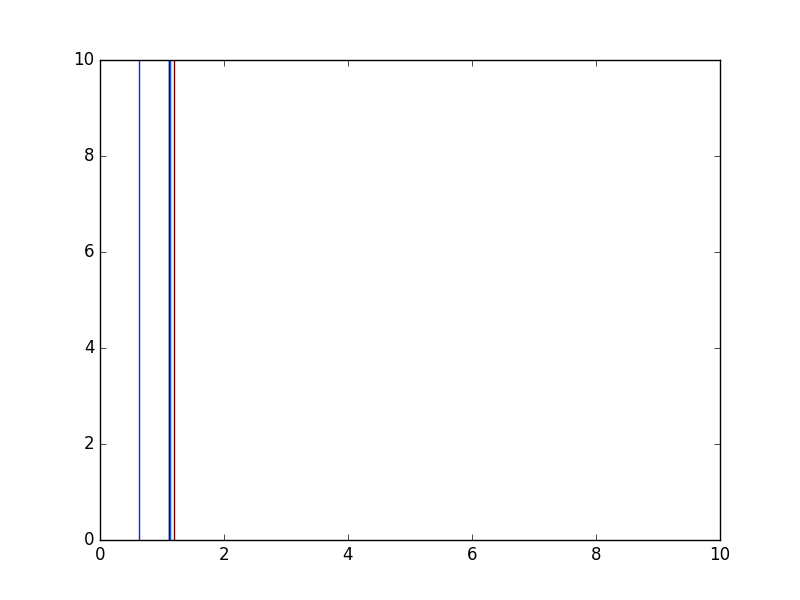
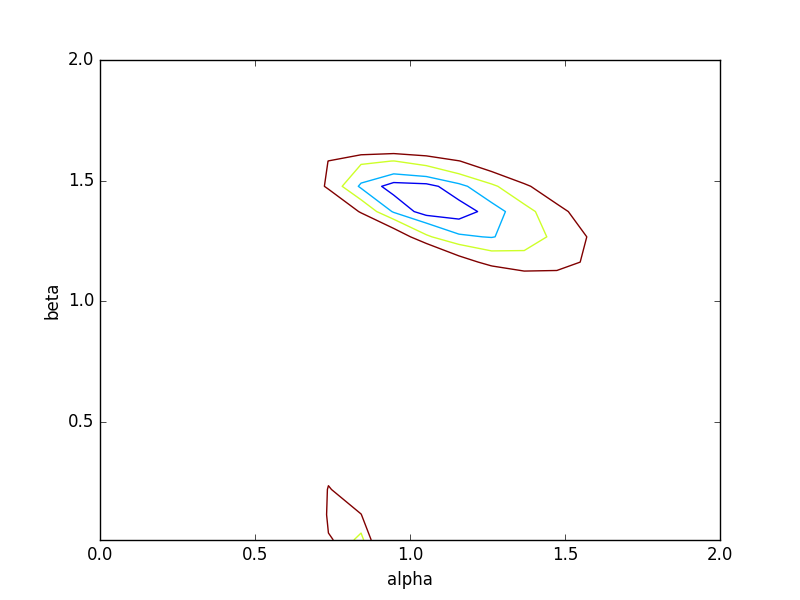
magic! things seem to work

diff --git a/GCE_jla_log_parab.py b/GCE_jla_log_parab.py
@@ -36,9 +36,9 @@ background = raw[trunc:dataset,7]
 exposure = raw[trunc:dataset,6]
 
 Eb = np.logspace(-2,2,20)
-alpha = np.linspace(0,10,10)
-beta = np.linspace(0.01,10,10)
-N0_GCE = np.logspace(-7,0,7)
+alpha = np.linspace(0,2,20)
+beta = np.linspace(0.01,2,20)
+N0_GCE = np.logspace(-10,-3,14)
 
 binned_spectra = GCE_calcs.calculations.get_spec_log_parab(N0_GCE,alpha,beta,Eb,emax_GCE,emin_GCE)
 
@@ -86,15 +86,26 @@ log_like_GCE_5d = GCE_calcs.analysis.poisson_log_like(k,mu_GCE)
 
 log_like_GCE_4d = np.sum(log_like_GCE_5d,axis=4)
 
+#print log_like_GCE_4d
+
+max_index = np.unravel_index(log_like_GCE_4d.argmax(),log_like_GCE_4d.shape)
+
+print 'the index of the max prob is ' + str(max_index)
+
+print 'the max alpha is ' + str(alpha[max_index[1]])
+print 'the max beta is ' + str(beta[max_index[2]])
+print 'the max Eb is ' + str(Eb[max_index[3]])
+print 'the max N0 is ' + str(N0_GCE[max_index[0]])
+
 like_GCE_4d = np.exp(log_like_GCE_4d)
 
 zero_test = np.count_nonzero(like_GCE_4d)
 
-print 'the number of non-zero elements are' + str(zero_test)
+#print 'the number of non-zero elements are' + str(zero_test)
 
 N0_prior_norm = np.trapz(np.ones(n_N0),x = np.log(N0_GCE))
 
-print 'the norm of the N0 prior is '+ str(N0_prior_norm)
+#print 'the norm of the N0 prior is '+ str(N0_prior_norm)
 
 like_GCE_3d = np.trapz(like_GCE_4d, x = np.log(N0_GCE),axis=0) / N0_prior_norm
 
@@ -102,27 +113,27 @@ like_GCE_3d = np.trapz(like_GCE_4d, x = np.log(N0_GCE),axis=0) / N0_prior_norm
 
 Eb_prior_norm = np.trapz(np.ones(n_eb),x = np.log(Eb))
 
-print 'the norm of the E_b prior is '+ str(Eb_prior_norm)
+#print 'the norm of the E_b prior is '+ str(Eb_prior_norm)
 
 like_GCE_2d = np.trapz(like_GCE_3d, x = np.log(Eb),axis = 2) / Eb_prior_norm
 
 zero_test_2d = np.count_nonzero(like_GCE_2d)
 
-print 'the number of non-zero elements are' + str(zero_test_2d)
+#print 'the number of non-zero elements are' + str(zero_test_2d)
 
 alpha_prior_norm = np.trapz(np.ones(n_alpha),x = alpha)
 
-print 'the norm of the alpha prior is '+ str(alpha_prior_norm)
+#print 'the norm of the alpha prior is '+ str(alpha_prior_norm)
 
-like_GCE_1d = np.trapz(like_GCE_2d, x = alpha, axis = 0)
+like_GCE_1d = np.trapz(like_GCE_2d, x = alpha, axis = 0)/alpha_prior_norm
 
 beta_prior_norm = np.trapz(np.ones(n_beta), x = beta)
 
-print 'the norm of the beta prior is '+ str(beta_prior_norm)
+#print 'the norm of the beta prior is '+ str(beta_prior_norm)
 
 like_GCE = np.trapz(like_GCE_1d, x = beta)/beta_prior_norm
 
-#print like_GCE
+print like_GCE
 
 #print like_GCE_2d
 
@@ -130,15 +141,19 @@ delta_log_like_2d = -(np.log(like_GCE_2d) - np.log(like_GCE_2d.max()))
 
 print delta_log_like_2d.shape
 
-print alpha
-print beta
+#print alpha
+#print beta
 
 #print delta_log_like_2d
 
-print np.argmax(like_GCE_2d,axis=0)
+#print np.argmax(like_GCE_2d,axis=0)
 
-levels = [0,1,3,6]
+levels = [0,1,3,6,10]
 plt.contour(alpha, beta, delta_log_like_2d ,levels)
+#plt.xlim(0,2)
+#plt.ylim(6,8)
+plt.xlabel('alpha')
+plt.ylabel('beta')
 plt.savefig('posterior_test.png')
 
 

diff --git a/GCE_calcs/calculations.py b/GCE_calcs/calculations.py
@@ -83,5 +83,5 @@ def get_spec_log_parab(N0,alpha,beta,Eb,emax,emin):
     #return N0 * Eb*np.exp(- (alpha-1)**2 / (4*beta))*np.pi**0.5 * (erf( ((alpha-1) + 2*beta*np.log(emax/Eb)) / (2*beta**0.5) ) - erf( ((alpha-1) + 2*beta*np.log(emin/Eb)) / (2*beta**0.5))) / (2*beta**0.5)
     #return N0 * erf( ((alpha-1) + 2*beta*np.log(emax/Eb)) / (2*beta**0.5) )
     #return N0 *  ((alpha-1) + 2*beta*np.log(emax/Eb)) / (2*beta**0.5)
-    return N0*Eb*0.5*np.sqrt(np.pi/beta) * (erf(np.sqrt(beta)*np.log(emax/Eb)) - erf(np.sqrt(beta)*np.log(emin/Eb)))
+    return N0*Eb*0.5*np.sqrt(np.pi/beta) * np.exp(-0.25*(alpha-1)**2/beta) * (erf(0.5*(alpha-1)/np.sqrt(beta) + np.sqrt(beta)*np.log(emax/Eb)) - erf(0.5*(alpha-1)/np.sqrt(beta) + np.sqrt(beta)*np.log(emin/Eb)))
 
